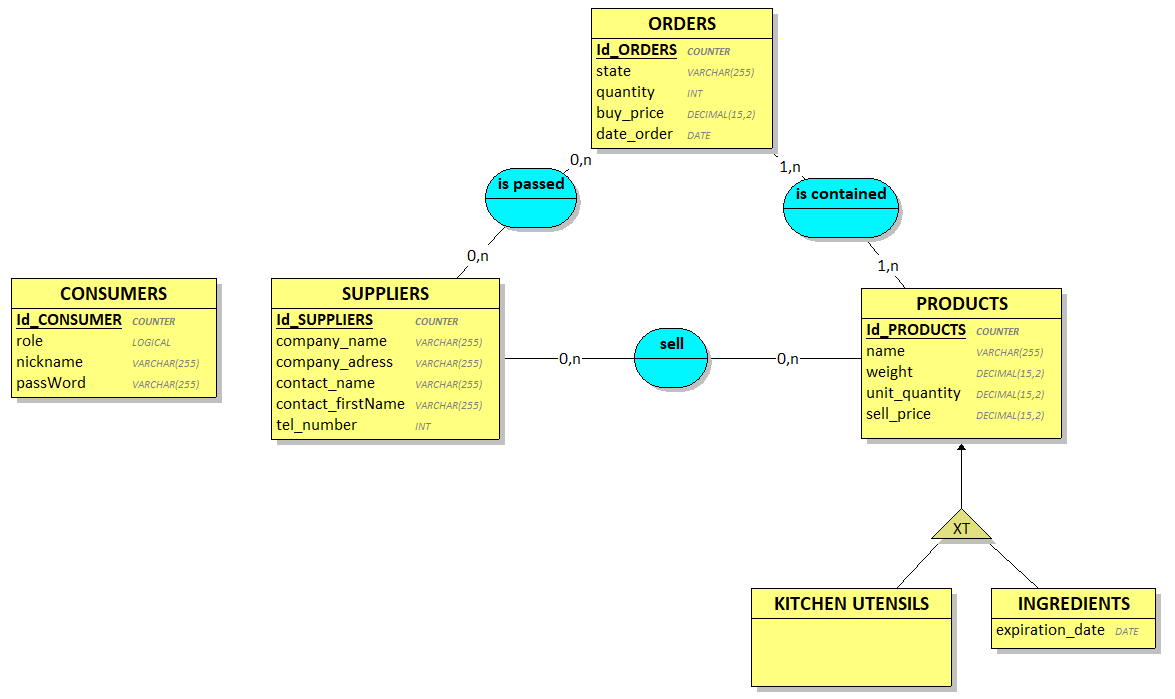
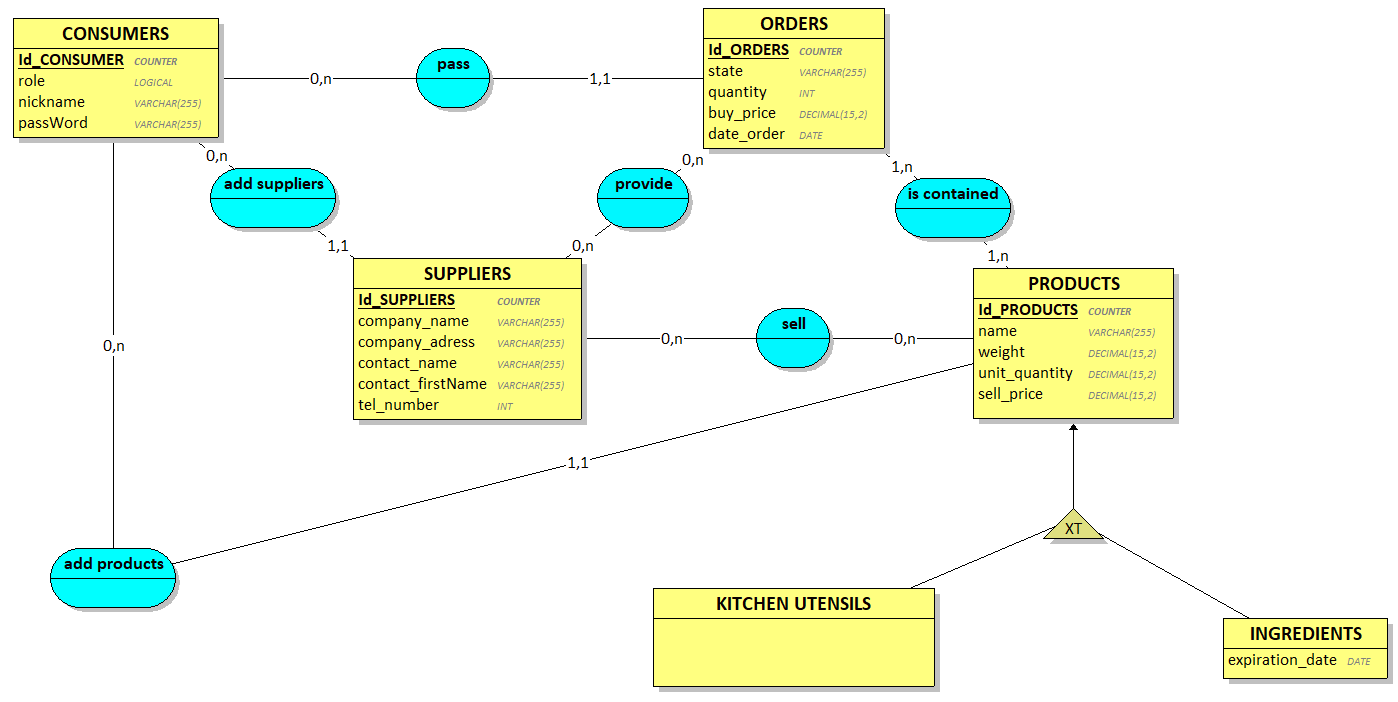
update mcd , mld and update mockup img & README

diff --git a/conception/README.md b/conception/README.md
@@ -70,17 +70,7 @@
 
 ## Maquette
 
-![Maquette](https://github.com/lauree-p/Nesti_Stelare/blob/main/conception/img/mockup_product.png)
-
-![Maquette](https://github.com/lauree-p/Nesti_Stelare/blob/main/conception/img/mockup_stock.png)
-
-![Maquette](https://github.com/lauree-p/Nesti_Stelare/blob/main/conception/img/mockup_suppliers.png)
-
-![Maquette](https://github.com/lauree-p/Nesti_Stelare/blob/main/conception/img/mockup_my_account.png)
-
-![Maquette](https://github.com/lauree-p/Nesti_Stelare/blob/main/conception/img/mockup_my_account_update.png)
-
-![Maquette](https://github.com/lauree-p/Nesti_Stelare/blob/main/conception/img/mockup_manage_admin.png)
+![Maquette](https://github.com/lauree-p/Nesti_Stelare/blob/main/conception/img/mockup.png)
 
 ## Outils
 
